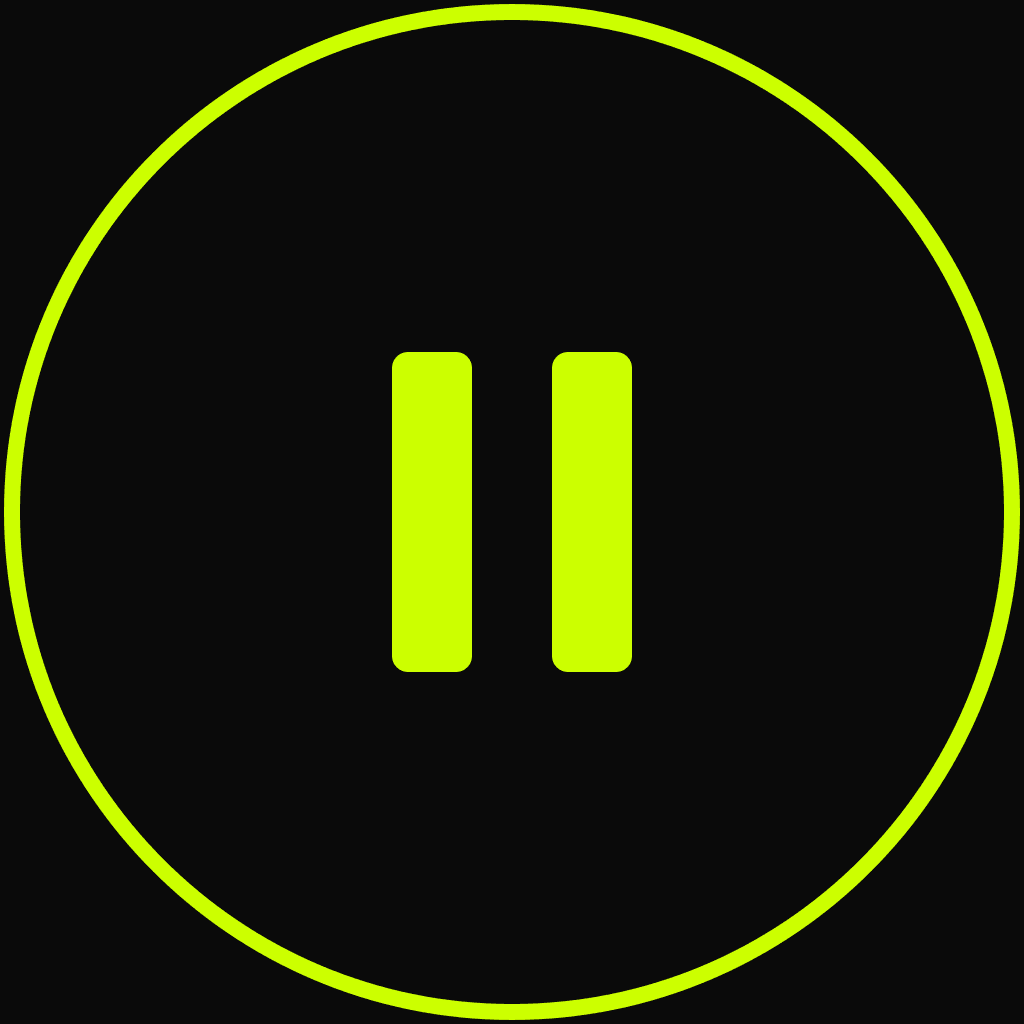
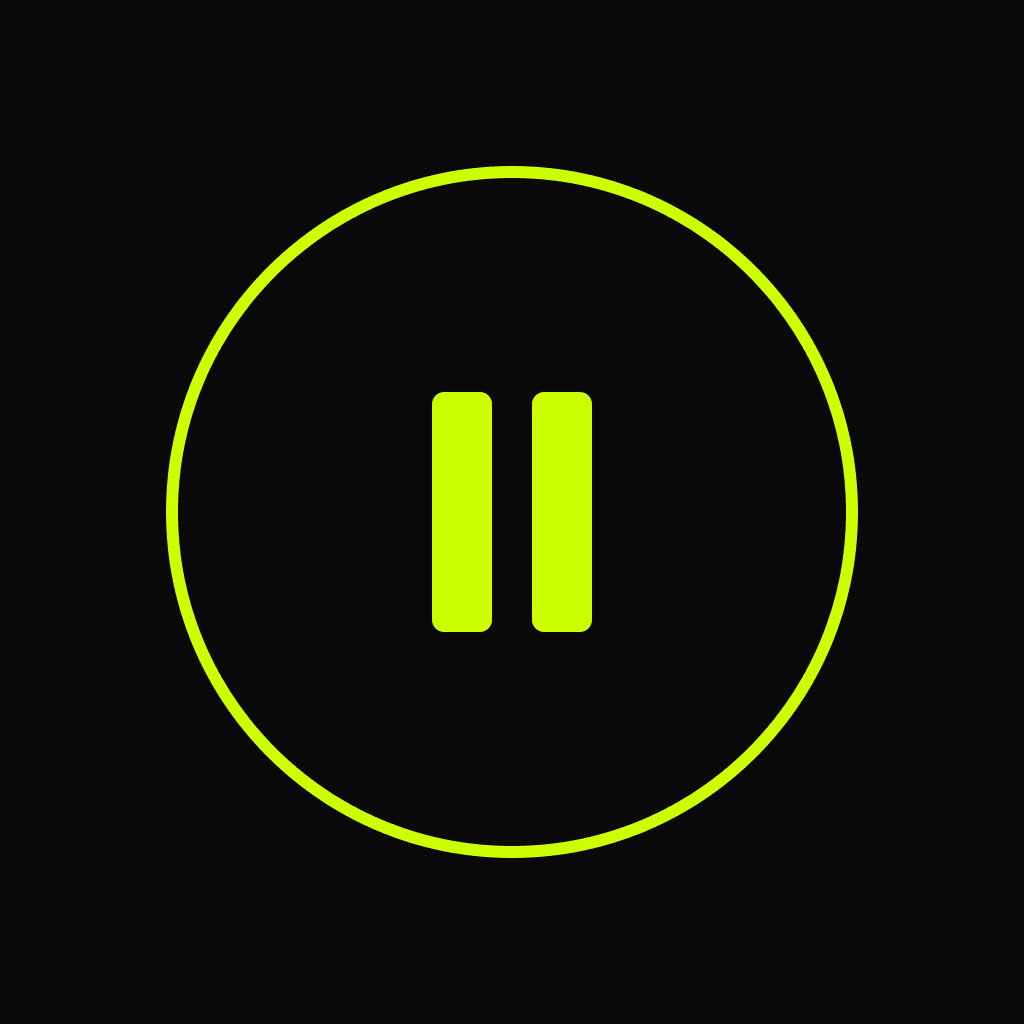
feat: rename catifyme→okoti-menya, tags on cards, explosion 50% (#38)
- slug catifyme → okoti-menya, title → Окоти меня
- 301 redirect /catifyme → /okoti-menya
- Убран 🐱 emoji с hero screen
- Теги видны на карточках главной страницы
- Взрыв бомжа 1.0 → 0.5 громкости
- take-break cover: уменьшен круг, не вылезает при hover

diff --git a/src/app/page.tsx b/src/app/page.tsx
@@ -69,6 +69,18 @@ export default function Home() {
                   )}
                   <h2 className="mb-1 line-clamp-1 text-lg font-medium">{app.title}</h2>
                   <p className="line-clamp-2 text-sm text-muted">{app.description}</p>
+                  {app.tags !== undefined && app.tags.length > 0 && (
+                    <div className="mt-3 flex flex-wrap gap-1.5">
+                      {app.tags.map((tag) => (
+                        <span
+                          key={tag}
+                          className="rounded-md border border-line px-2 py-0.5 font-mono text-xs text-muted"
+                        >
+                          {tag}
+                        </span>
+                      ))}
+                    </div>
+                  )}
                 </div>
               </Link>
             </li>

diff --git a/src/__tests__/manifest.test.ts b/src/__tests__/manifest.test.ts
@@ -35,14 +35,14 @@ describe("apps manifests", () => {
 
   it("returns correct neighbors in multi-app ordering", () => {
     const bomzh = getNeighbors("bomzh");
-    const catifyme = getNeighbors("catifyme");
+    const okotiMenya = getNeighbors("okoti-menya");
     const takeBreak = getNeighbors("take-break");
     const ytVideoDownloader = getNeighbors("yt-video-downloader");
     expect(bomzh.prev).toBeNull();
-    expect(bomzh.next).toBe("catifyme");
-    expect(catifyme.prev).toBe("bomzh");
-    expect(catifyme.next).toBe("take-break");
-    expect(takeBreak.prev).toBe("catifyme");
+    expect(bomzh.next).toBe("okoti-menya");
+    expect(okotiMenya.prev).toBe("bomzh");
+    expect(okotiMenya.next).toBe("take-break");
+    expect(takeBreak.prev).toBe("okoti-menya");
     expect(takeBreak.next).toBe("yt-video-downloader");
     expect(ytVideoDownloader.prev).toBe("take-break");
     expect(ytVideoDownloader.next).toBeNull();

diff --git a/next.config.ts b/next.config.ts
@@ -26,6 +26,11 @@ const nextConfig: NextConfig = {
         destination: "/take-break",
         permanent: true,
       },
+      {
+        source: "/catifyme",
+        destination: "/okoti-menya",
+        permanent: true,
+      },
     ];
   },
 };

diff --git a/src/__tests__/catifyme-api.test.ts b/src/__tests__/catifyme-api.test.ts
@@ -7,7 +7,7 @@ import {
   isAbortError,
   isNetworkError,
   normalizeImageToJPEG,
-} from "@/apps/catifyme/api";
+} from "@/apps/okoti-menya/api";
 import { afterEach, beforeEach, describe, expect, it, vi } from "vitest";
 
 const validJsonResponse = (data: Record<string, unknown>) => ({
@@ -86,7 +86,7 @@ function mockFetchForDataUrl() {
   );
 }
 
-describe("catifyme api", () => {
+describe("okoti-menya api", () => {
   beforeEach(() => {
     mockImageLoaded();
     mockCanvas();

diff --git a/src/__tests__/catifyme-prompts.test.ts b/src/__tests__/catifyme-prompts.test.ts
@@ -5,10 +5,10 @@ import {
   pickFunFact,
   pickPersonality,
   pickStyle,
-} from "@/apps/catifyme/prompts";
+} from "@/apps/okoti-menya/prompts";
 import { describe, expect, it } from "vitest";
 
-describe("catifyme prompts", () => {
+describe("okoti-menya prompts", () => {
   it("pickStyle returns non-empty string from STYLES", () => {
     const style = pickStyle();
     expect(typeof style).toBe("string");

diff --git a/src/__tests__/bomzh-app.test.tsx b/src/__tests__/bomzh-app.test.tsx
@@ -85,7 +85,7 @@ describe("BomzhApp", () => {
     expect(screen.getByText("9")).toBeDefined();
     act(() => fireEvent.click(button));
     expect(screen.getByText("БОМЖ ВЗОРВАЛСЯ!")).toBeDefined();
-    expect(mockPlay).toHaveBeenCalledWith("explosion", 1.0);
+    expect(mockPlay).toHaveBeenCalledWith("explosion", 0.5);
     act(() => {
       vi.advanceTimersByTime(5000);
     });

diff --git a/src/apps/app-components.ts b/src/apps/app-components.ts
@@ -4,5 +4,5 @@ import type { ComponentType } from "react";
 
 export const appComponents: Record<string, ComponentType<{ manifest: Manifest }>> = {
   bomzh: dynamic(() => import("./bomzh/app")),
-  catifyme: dynamic(() => import("./catifyme/app")),
+  "okoti-menya": dynamic(() => import("./okoti-menya/app")),
 };

diff --git a/src/apps/bomzh/app.tsx b/src/apps/bomzh/app.tsx
@@ -59,7 +59,7 @@ export default function BomzhApp({ manifest }: { manifest: Manifest }) {
 
     if (clicks + 1 >= EXPLOSION_THRESHOLD) {
       setIsExploded(true);
-      play("explosion", 1.0);
+      play("explosion", 0.5);
       addTimer(() => {
         setClicks(0);
         setIsExploded(false);